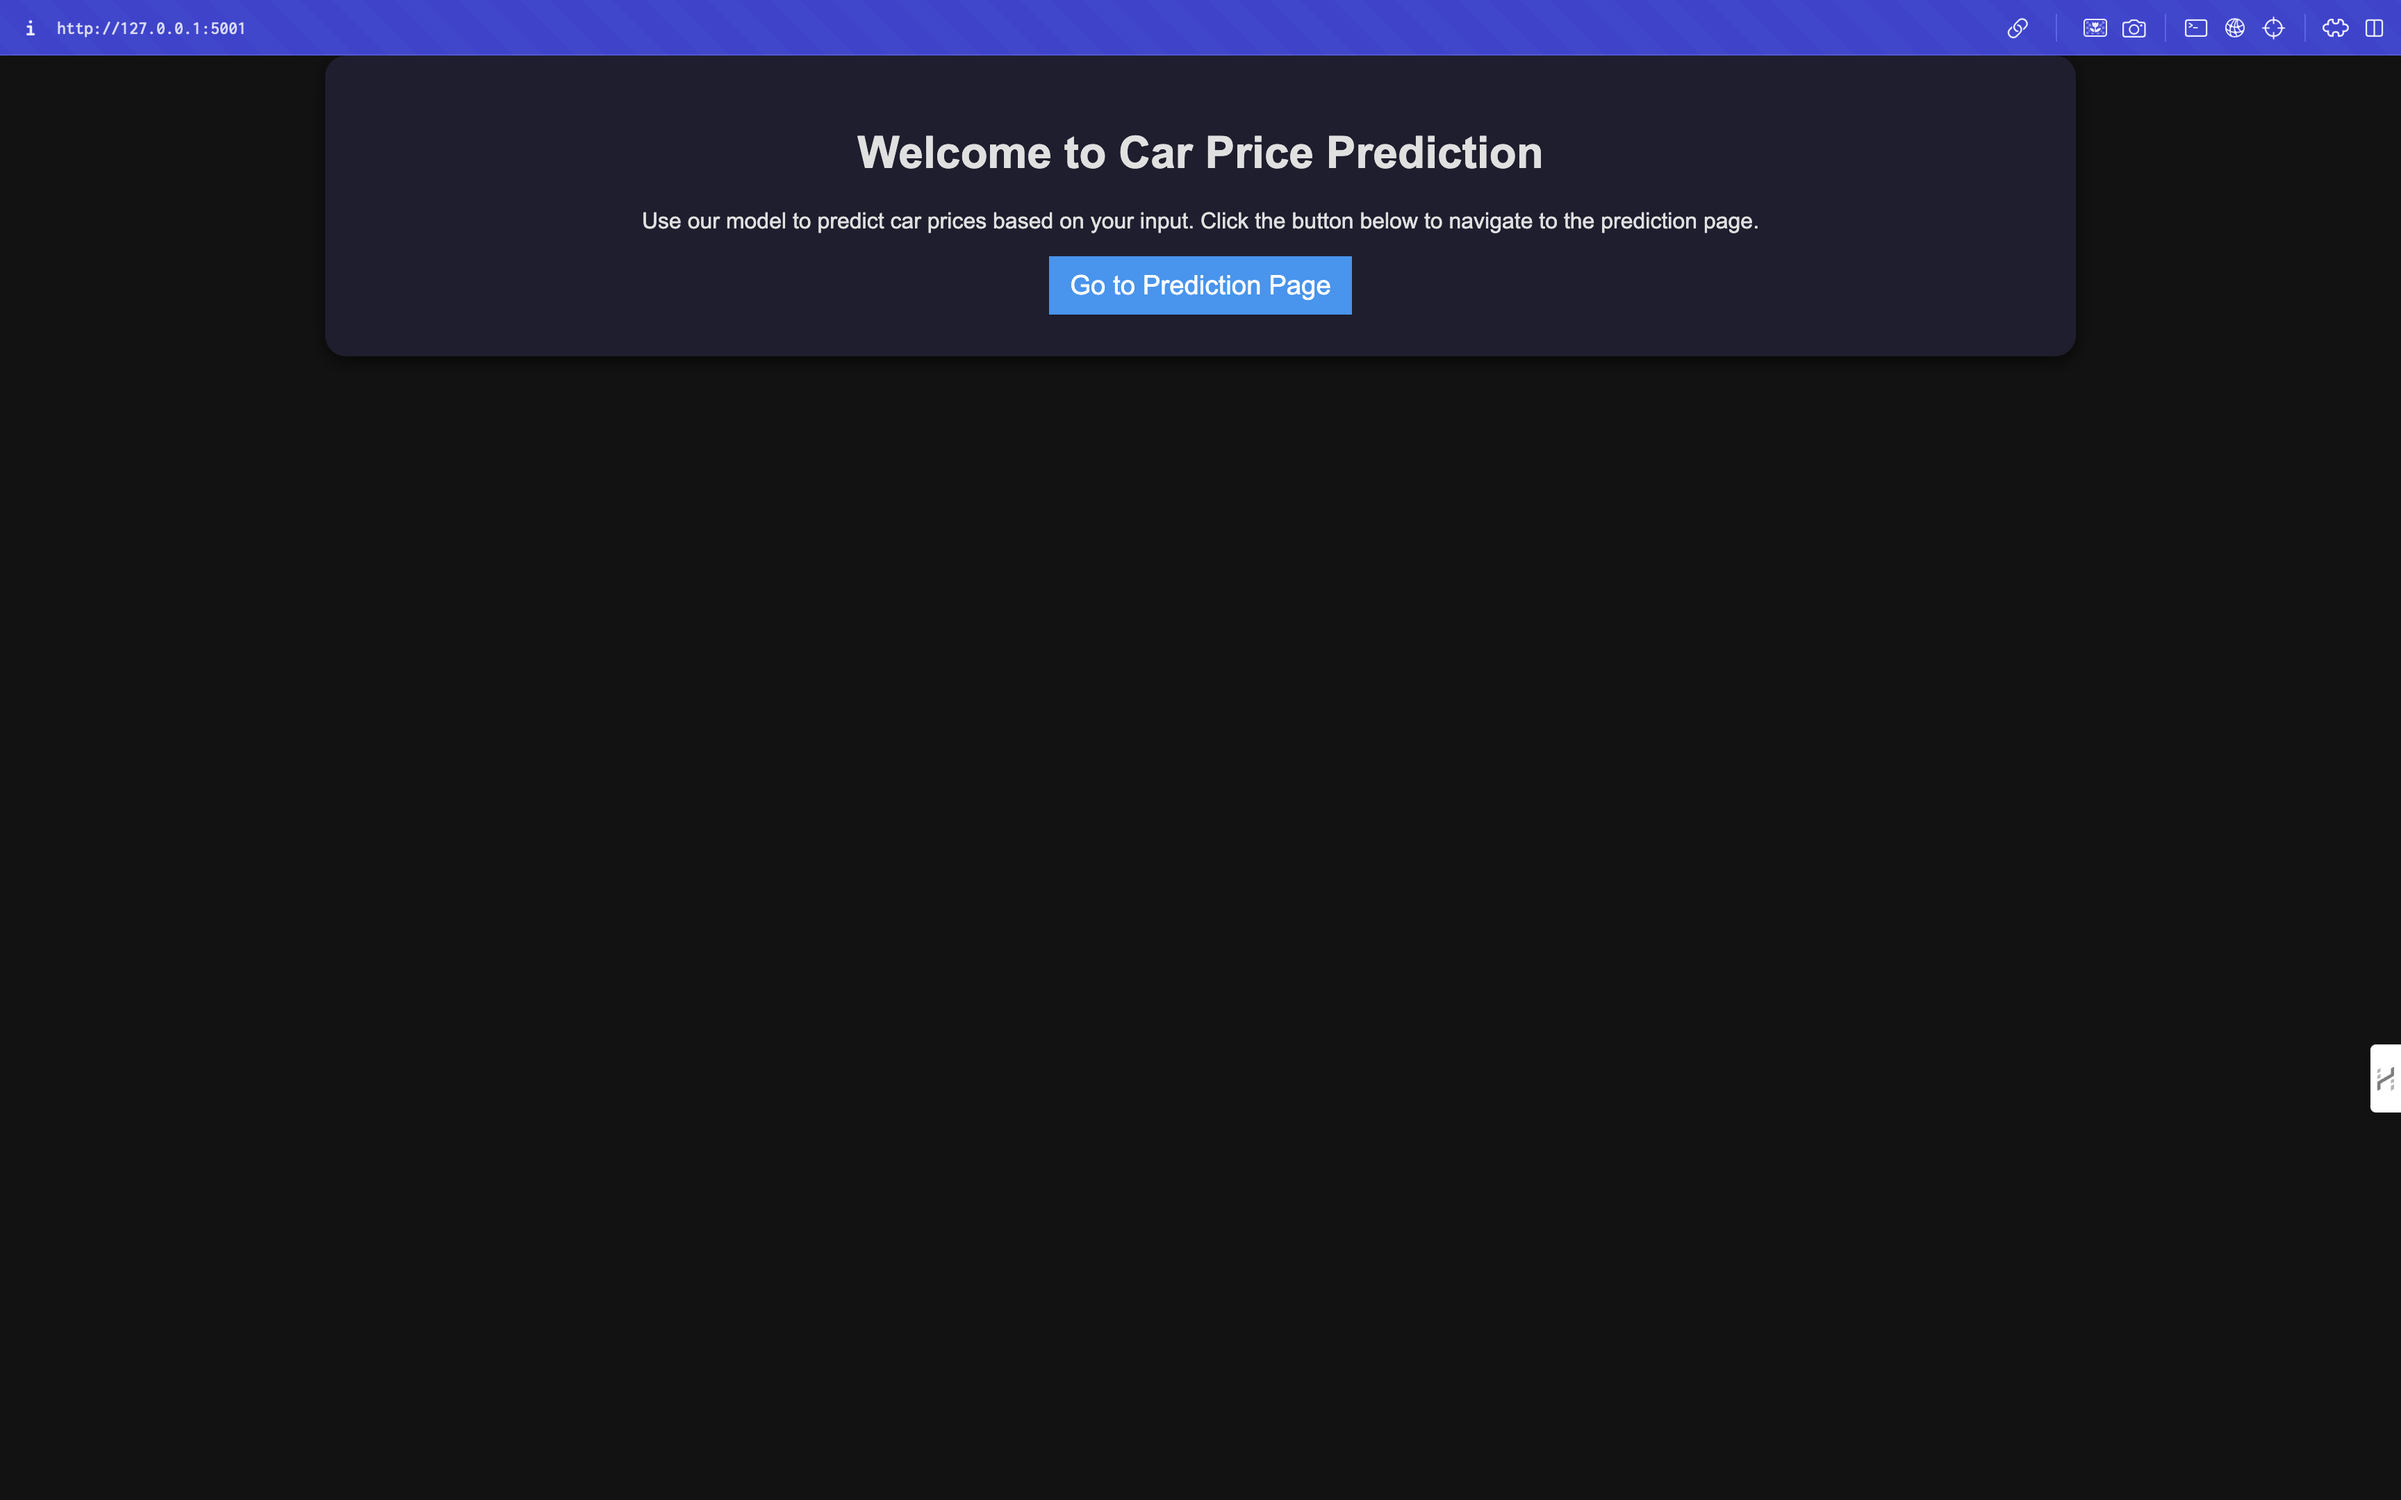
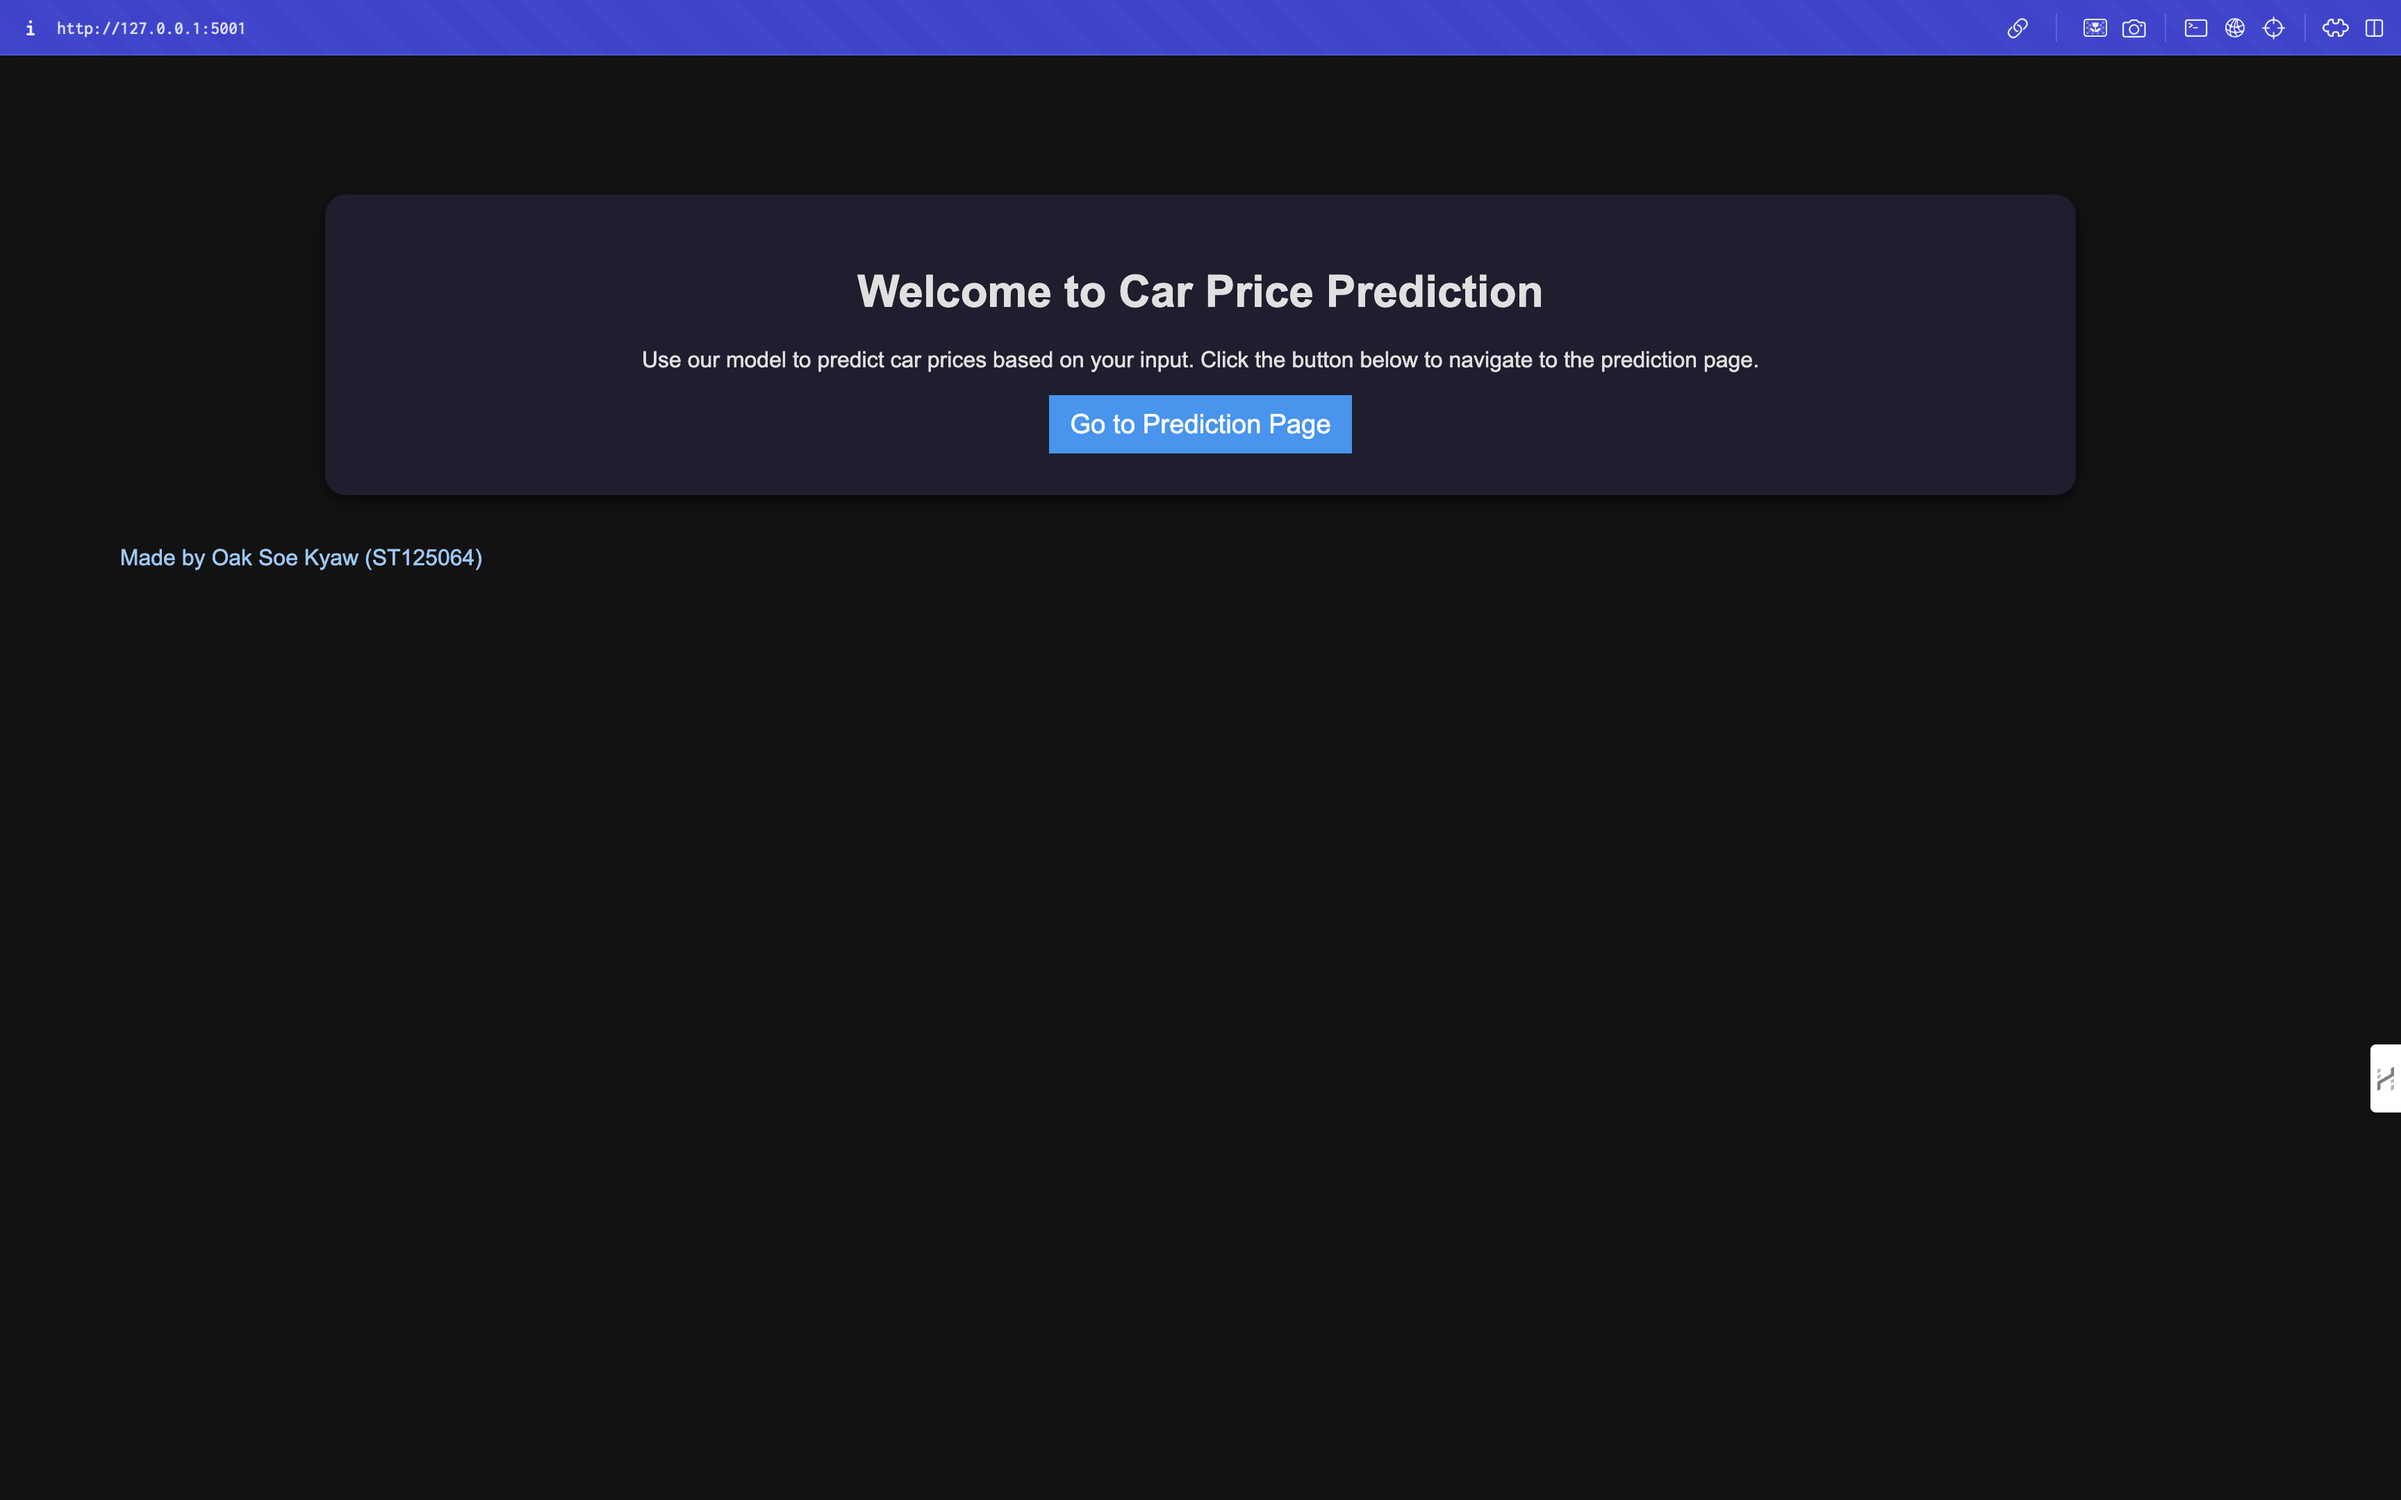
Fixes

Changed region(s): [[0.125, 0.031, 0.875, 0.3412]]

diff --git a/templates/home.html b/templates/home.html
@@ -17,5 +17,8 @@
         </form>
         <!-- <a href="/predict" class="button">Go to Prediction Page</a> -->
     </div>
+    <div class="footer">
+        <p>Made by Oak Soe Kyaw (ST125064)</p>
+    </div>
 </body>
 </html>

diff --git a/static/style.css b/static/style.css
@@ -36,7 +36,7 @@ body {
     border-radius: 15px;
     padding: 30px;
     box-shadow: 0 4px 12px rgba(0, 0, 0, 0.6);
-    
+    margin-top: 100px;
     gap: 30px;
 }
 .container {
